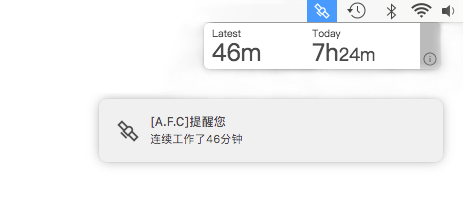
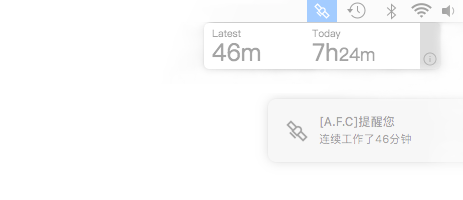
a

diff --git a/css/index.css b/css/index.css
@@ -246,7 +246,8 @@ a {
 
 #case_2{
     /*margin-top: 150px;*/
-    background: url("../images/alert2.png") no-repeat;
+    background: url("../images/alert.png") no-repeat ;
+
     background-position: right top;
 }
 
